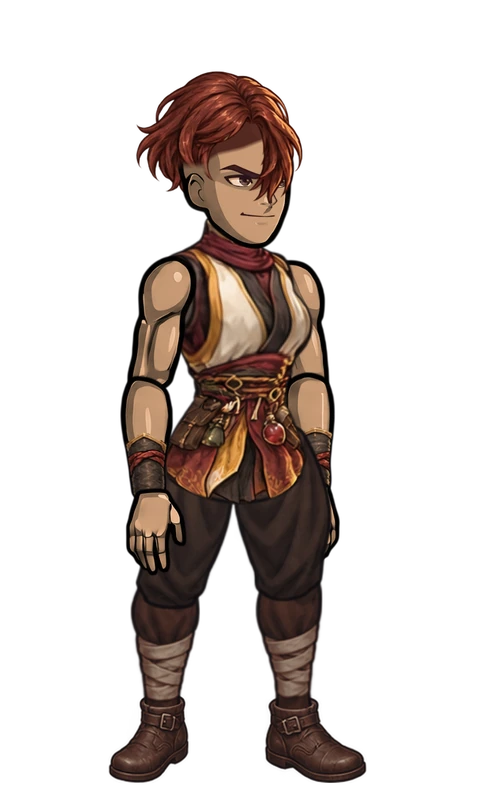
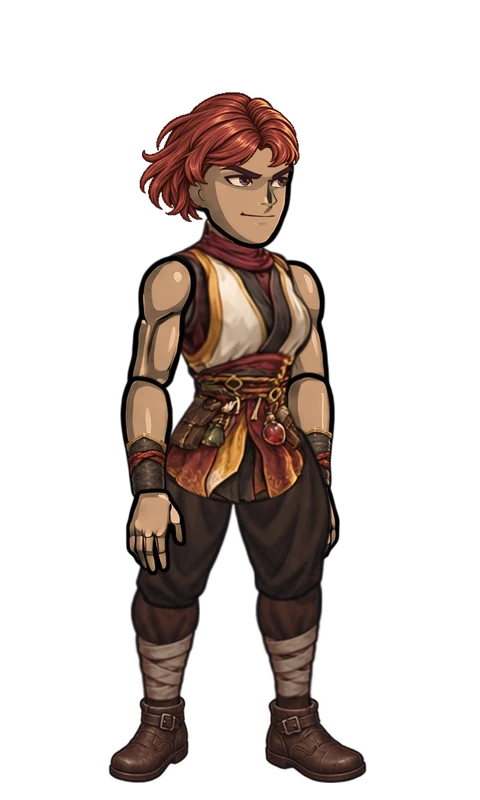
Ajusta peinados de representantes NPC
- Actualiza el generador y los sprites de Mei, Sayo, Hana, Yuna y Kureha.

- Añade las fuentes de cabello revisadas y despeja de la lista los peinados terminados.

Changed region(s): [[0.2812, 0.0625, 0.6562, 0.2812]]

diff --git a/scripts/pack-npc-puppets.py b/scripts/pack-npc-puppets.py
@@ -18,7 +18,12 @@ ARM_COLUMNS = {
     "antebrazo_izquierdo": 3, "antebrazo_derecho": 4
 }
 BEARDS = {"iori": (1, 57, 136, 112, 96)}
-CUSTOM_HAIR = {"goro": "goro-hair-v8.png", "ren": "ren-hair-v7.png", "mei": "mei-hair-v2.png"}
+CUSTOM_HAIR = {
+    "goro": "goro-hair-v8.png", "ren": "ren-hair-v7.png",
+    "mei": "mei-hair-v3.png", "sayo": "sayo-hair-v2.png",
+    "hana": "hana-hair-v3.png", "yuna": "yuna-hair-v2.png",
+    "kureha": "kureha-hair-v5.png"
+}
 DAICHI_FACIAL_HAIR_AT = (231, 152)
 DAICHI_CHIN_BEARD_AT = (246, 181)
 PORTRAIT_SCALE = .61
@@ -26,10 +31,10 @@ HAIR_SCALE = 1.10
 HAIR_SHIFT_LEFT = .10
 EXTRA_HAIR_SCALE = 1.20
 EXTRA_HAIR_Y_SCALE = 1.10
-EXTRA_HAIR_Y_PX = {"yuna": 40, "goro": 18, "ren": 20, "daichi": 10}
-EXTRA_HAIR_X_PX = {"goro": 10, "ren": 13}
-HAIR_WIDTH_ADJUST = {"goro": .80}
-HAIR_HEIGHT_ADJUST = {"goro": .80, "ren": 1.20, "mei": 1.10}
+EXTRA_HAIR_Y_PX = {"yuna": 40, "goro": 18, "ren": 20, "daichi": 10, "mei": 20, "sayo": 20, "hana": 20, "kureha": 25}
+EXTRA_HAIR_X_PX = {"goro": 10, "ren": 13, "mei": 5}
+HAIR_WIDTH_ADJUST = {"goro": .80, "kureha": 1.21275}
+HAIR_HEIGHT_ADJUST = {"goro": .80, "ren": 1.20, "mei": 1.10, "kureha": 1.21275}
 EXTRA_HAIR_HEIGHT_PX = {"goro": 10}
 # Source and destination rows of each sash in its individual costume.
 # The higher obi and the narrower belts fit between chest and hips differently.
@@ -213,25 +218,46 @@ def draw(image, piece, center, size):
 def registered_hair(donor, head, hair_box, id):
     x, y, width, height = hair_box
     art = donor.resize((width, height), Image.Resampling.LANCZOS)
+    if id in ("sayo", "hana"):
+        # Keep these complete hairstyles in one layer so no strands are cut
+        # by the head or partially blended across its silhouette.
+        return Image.new("RGBA", art.size), art
     columns = (np.arange(width)[None, :] + x) / head["width"]
     rows = (np.arange(height)[:, None] + y) / head["height"]
     # Long strands toward the back pass behind the ear, head and shoulder.
     if id == "goro":
         # His short nape has no separate tail; the head used to hide it.
         back_mix = np.zeros((height, width), dtype=np.float32)
-    elif id == "yuna":
-        # Keep the crown and strands beside the ear in front. The polygon
-        # follows only the tied braid and its loose end in this hair sprite.
+    elif id == "kureha":
+        # The entire ponytail passes behind the head and torso. The swept
+        # crown, fringe and temple lock remain in front of the face.
         tail = Image.new("L", (width, height))
         reference_outline = [
-            (120, 113), (151, 110), (174, 142), (170, 161),
-            (143, 187), (140, 217), (187, 305), (0, 305),
-            (0, 219), (50, 207), (65, 180), (100, 147), (101, 121)
+            (0, 0), (295, 0), (270, 55), (245, 75),
+            (175, 95), (170, 160), (205, 195), (225, 240),
+            (230, 382), (0, 382)
         ]
-        outline = [(round(px * width / 332), round(py * height / 305))
+        outline = [(round(px * width / 424), round(py * height / 382))
                    for px, py in reference_outline]
         ImageDraw.Draw(tail).polygon(outline, fill=255)
-        back_mix = np.asarray(tail.filter(ImageFilter.GaussianBlur(3)), dtype=np.float32) / 255
+        back_mix = np.asarray(tail, dtype=np.float32) / 255
+    elif id == "yuna":
+        # The braid, ribbons and loose end stay behind the head and shoulder.
+        # The crown, flower and temple lock remain in front.
+        tail = Image.new("L", (width, height))
+        reference_outline = [
+            (82, 101), (126, 100), (130, 113), (133, 145),
+            (149, 167), (132, 188), (127, 216), (109, 245),
+            (111, 336), (0, 336), (0, 215), (47, 203),
+            (47, 175), (69, 151), (70, 119)
+        ]
+        outline = [(round(px * width / 332), round(py * height / 336))
+                   for px, py in reference_outline]
+        ImageDraw.Draw(tail).polygon(outline, fill=255)
+        ImageDraw.Draw(tail).rectangle(
+            (0, round(170 * height / 336), round(160 * width / 332), height), fill=255
+        )
+        back_mix = np.asarray(tail, dtype=np.float32) / 255
     else:
         # Ren's short temple strands stay in front until they meet the ear.
         back_start = .60 if id == "ren" else .37
@@ -244,6 +270,17 @@ def registered_hair(donor, head, hair_box, id):
             ImageDraw.Draw(temple).polygon([
                 (50, 105), (115, 105), (115, 138),
                 (95, 152), (60, 158), (45, 135)
+            ], fill=255)
+            front_temple = np.asarray(temple.filter(ImageFilter.GaussianBlur(4)), dtype=np.float32) / 255
+            back_mix *= 1 - front_temple
+        elif id == "mei":
+            # The tied tail stays behind her head, while the loose side
+            # strands overlap the temple and upper ear instead of floating
+            # above an exposed strip of scalp.
+            temple = Image.new("L", (width, height))
+            ImageDraw.Draw(temple).polygon([
+                (72, 105), (152, 105), (152, 142),
+                (128, 164), (95, 168), (75, 145)
             ], fill=255)
             front_temple = np.asarray(temple.filter(ImageFilter.GaussianBlur(4)), dtype=np.float32) / 255
             back_mix *= 1 - front_temple
@@ -342,6 +379,12 @@ def assemble(sheet, row, profile, rigs, palettes, beards, sleeve_fabric):
     hair_source = CUSTOM_HAIR.get(id)
     hair_donor = (Image.open(OUTPUT / "source" / hair_source).convert("RGBA")
                   if hair_source else extract(sheet, 5, row, id))
+    if id in ("sayo", "hana", "yuna", "kureha"):
+        # Keep visible strands solid; transparency belongs only in the gaps
+        # between strands and at the resized silhouette's antialiasing.
+        hair_donor.putalpha(hair_donor.getchannel("A").point(
+            lambda value: 255 if value >= 32 else 0
+        ))
     back_hair, front_hair = registered_hair(hair_donor, head, hair_box, id)
     image.alpha_composite(back_hair, hair_at)
     dressed_legs = {}
@@ -390,7 +433,10 @@ def assemble(sheet, row, profile, rigs, palettes, beards, sleeve_fabric):
         draw(image, art, center, size)
 
     head_art = Image.open(body_path / "cabeza.png").convert("RGBA")
-    draw(image, fitted_scalp(head_art, id), head_center, head_size)
+    # These hairstyles already frame their faces; a dark scalp underlay
+    # adds an artificial shadow at the hairline.
+    if id not in ("mei", "sayo", "hana"):
+        draw(image, fitted_scalp(head_art, id), head_center, head_size)
     face = Image.open(MODULAR / "faces" / f"male_{expression}_{tone}.png").convert("RGBA")
     draw(image, face, head_center, head_size)
     if id in BEARDS:
@@ -411,17 +457,34 @@ def assemble(sheet, row, profile, rigs, palettes, beards, sleeve_fabric):
         side_mask = side_mask.filter(ImageFilter.GaussianBlur(3))
         side_hair.putalpha(ImageChops.multiply(side_hair.getchannel("A"), side_mask))
         image.alpha_composite(side_hair, (hair_at[0], hair_at[1] + 8))
+    if id == "mei":
+        # Extend only the loose temple locks so the hair grows into the
+        # upper ear instead of ending above a bare wedge of scalp.
+        side_hair = hair_donor.resize((w, h), Image.Resampling.LANCZOS)
+        side_mask = Image.new("L", side_hair.size)
+        ImageDraw.Draw(side_mask).polygon([
+            (72, 104), (143, 104), (141, 145),
+            (119, 162), (82, 160), (68, 136)
+        ], fill=255)
+        side_mask = side_mask.filter(ImageFilter.GaussianBlur(4))
+        side_hair.putalpha(ImageChops.multiply(side_hair.getchannel("A"), side_mask))
+        image.alpha_composite(side_hair, (hair_at[0], hair_at[1] + 10))
     image.alpha_composite(front_hair, hair_at)
-    if id in ("goro", "ren"):
+    if id in ("goro", "ren", "yuna"):
         # Follow the ear silhouette so its complete black outline stays
         # above the side hair without restoring a broad scalp-colored strip.
         ear = skin(head_art, palette)
         ear_mask = Image.new("L", ear.size)
-        ImageDraw.Draw(ear_mask).polygon([
+        outline = ([
+            (10, 120), (14, 111), (20, 106), (26, 104), (32, 107),
+            (38, 115), (43, 128), (45, 143), (41, 156), (34, 167),
+            (25, 168), (17, 160), (11, 147)
+        ] if id == "yuna" else [
             (0, 110), (7, 105), (13, 103), (20, 105),
             (27, 109), (34, 118), (40, 137), (40, 159), (31, 165),
             (15, 165), (3, 154)
-        ], fill=255)
+        ])
+        ImageDraw.Draw(ear_mask).polygon(outline, fill=255)
         ear.putalpha(ImageChops.multiply(ear.getchannel("A"), ear_mask))
         draw(image, ear, head_center, head_size)
 

diff --git a/PEINADOS_NPC_ARREGLAR.md b/PEINADOS_NPC_ARREGLAR.md
@@ -1,8 +1,4 @@
 # Peinados de NPC pendientes de arreglar
-
-- Mei
-- Sayo
-- Hana
 - Yuna
 - Kureha
 - Riku
